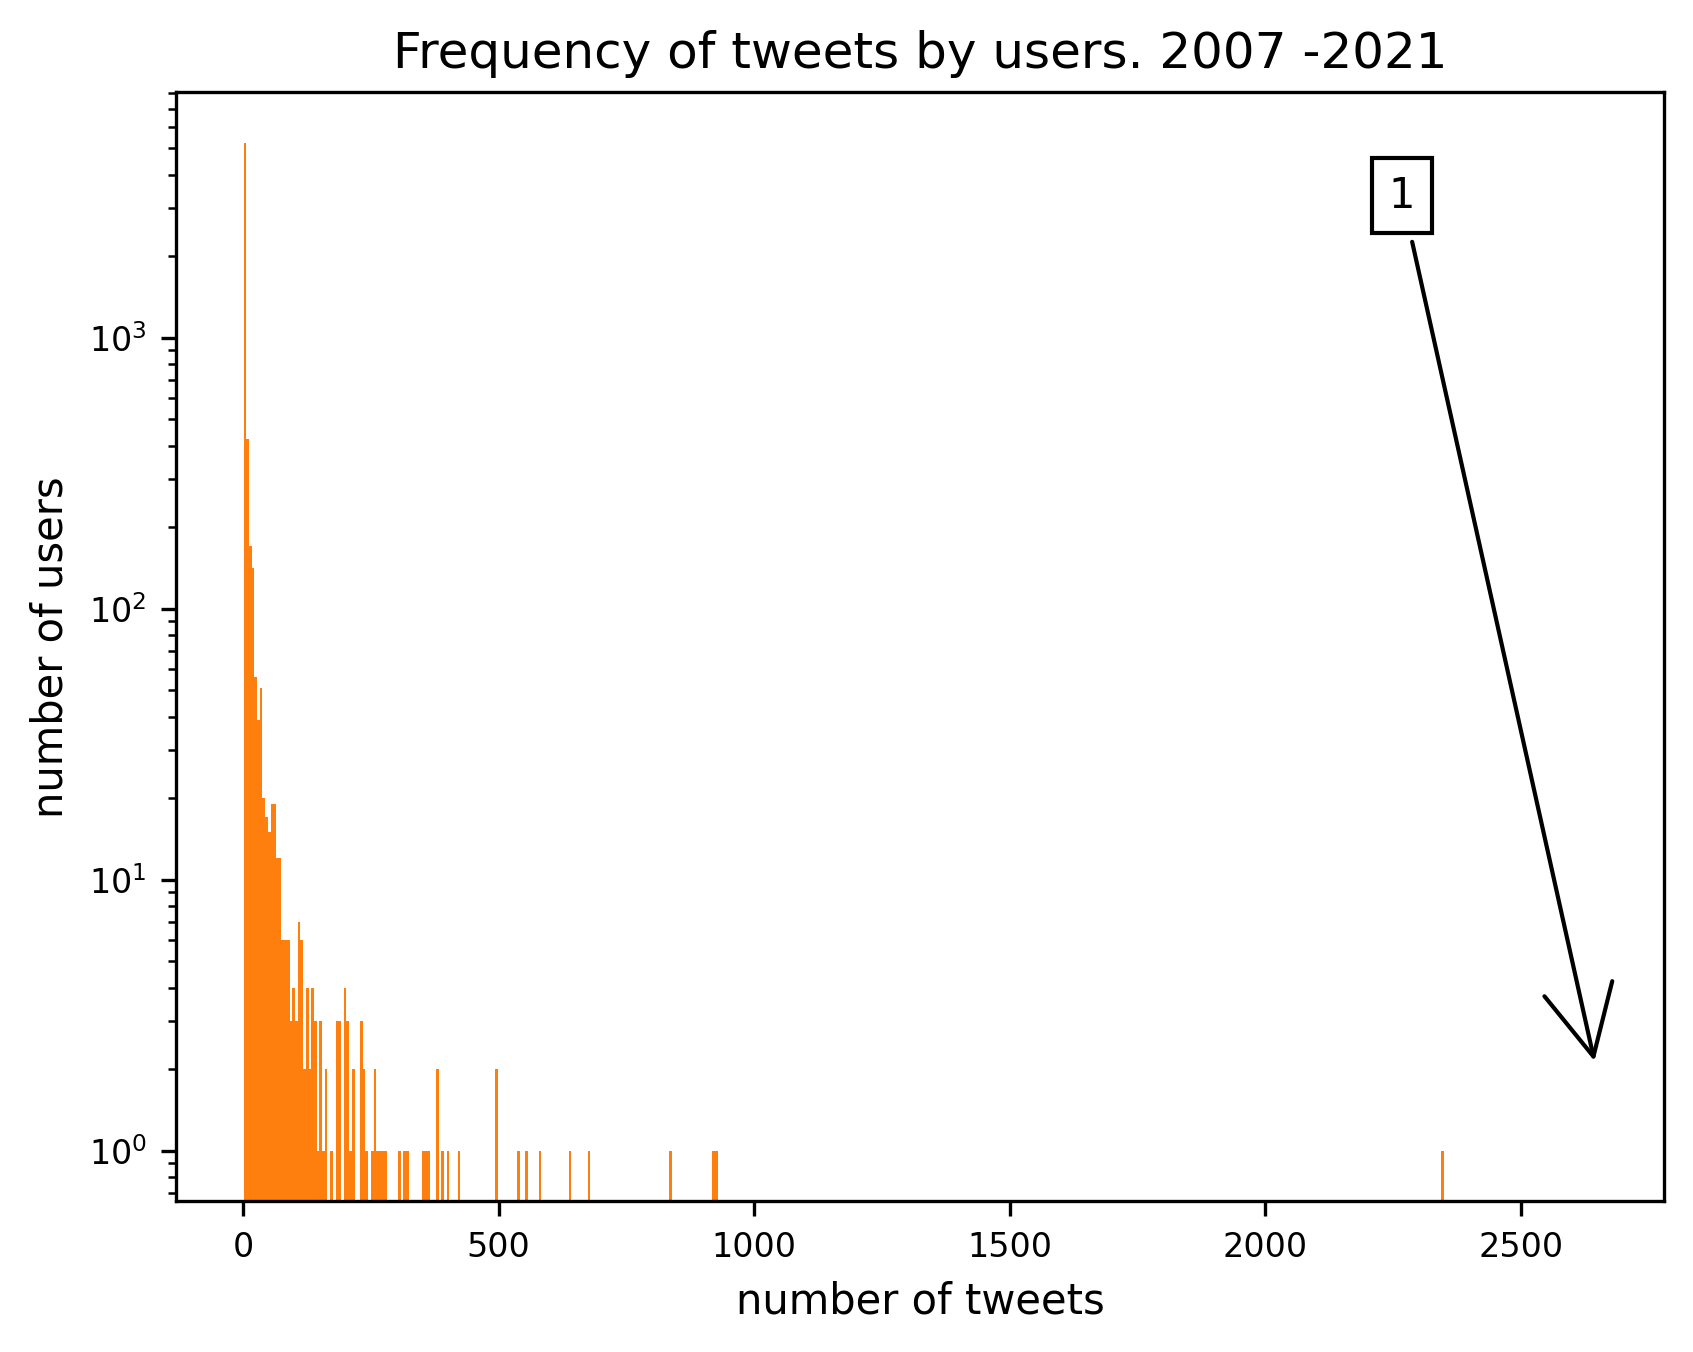
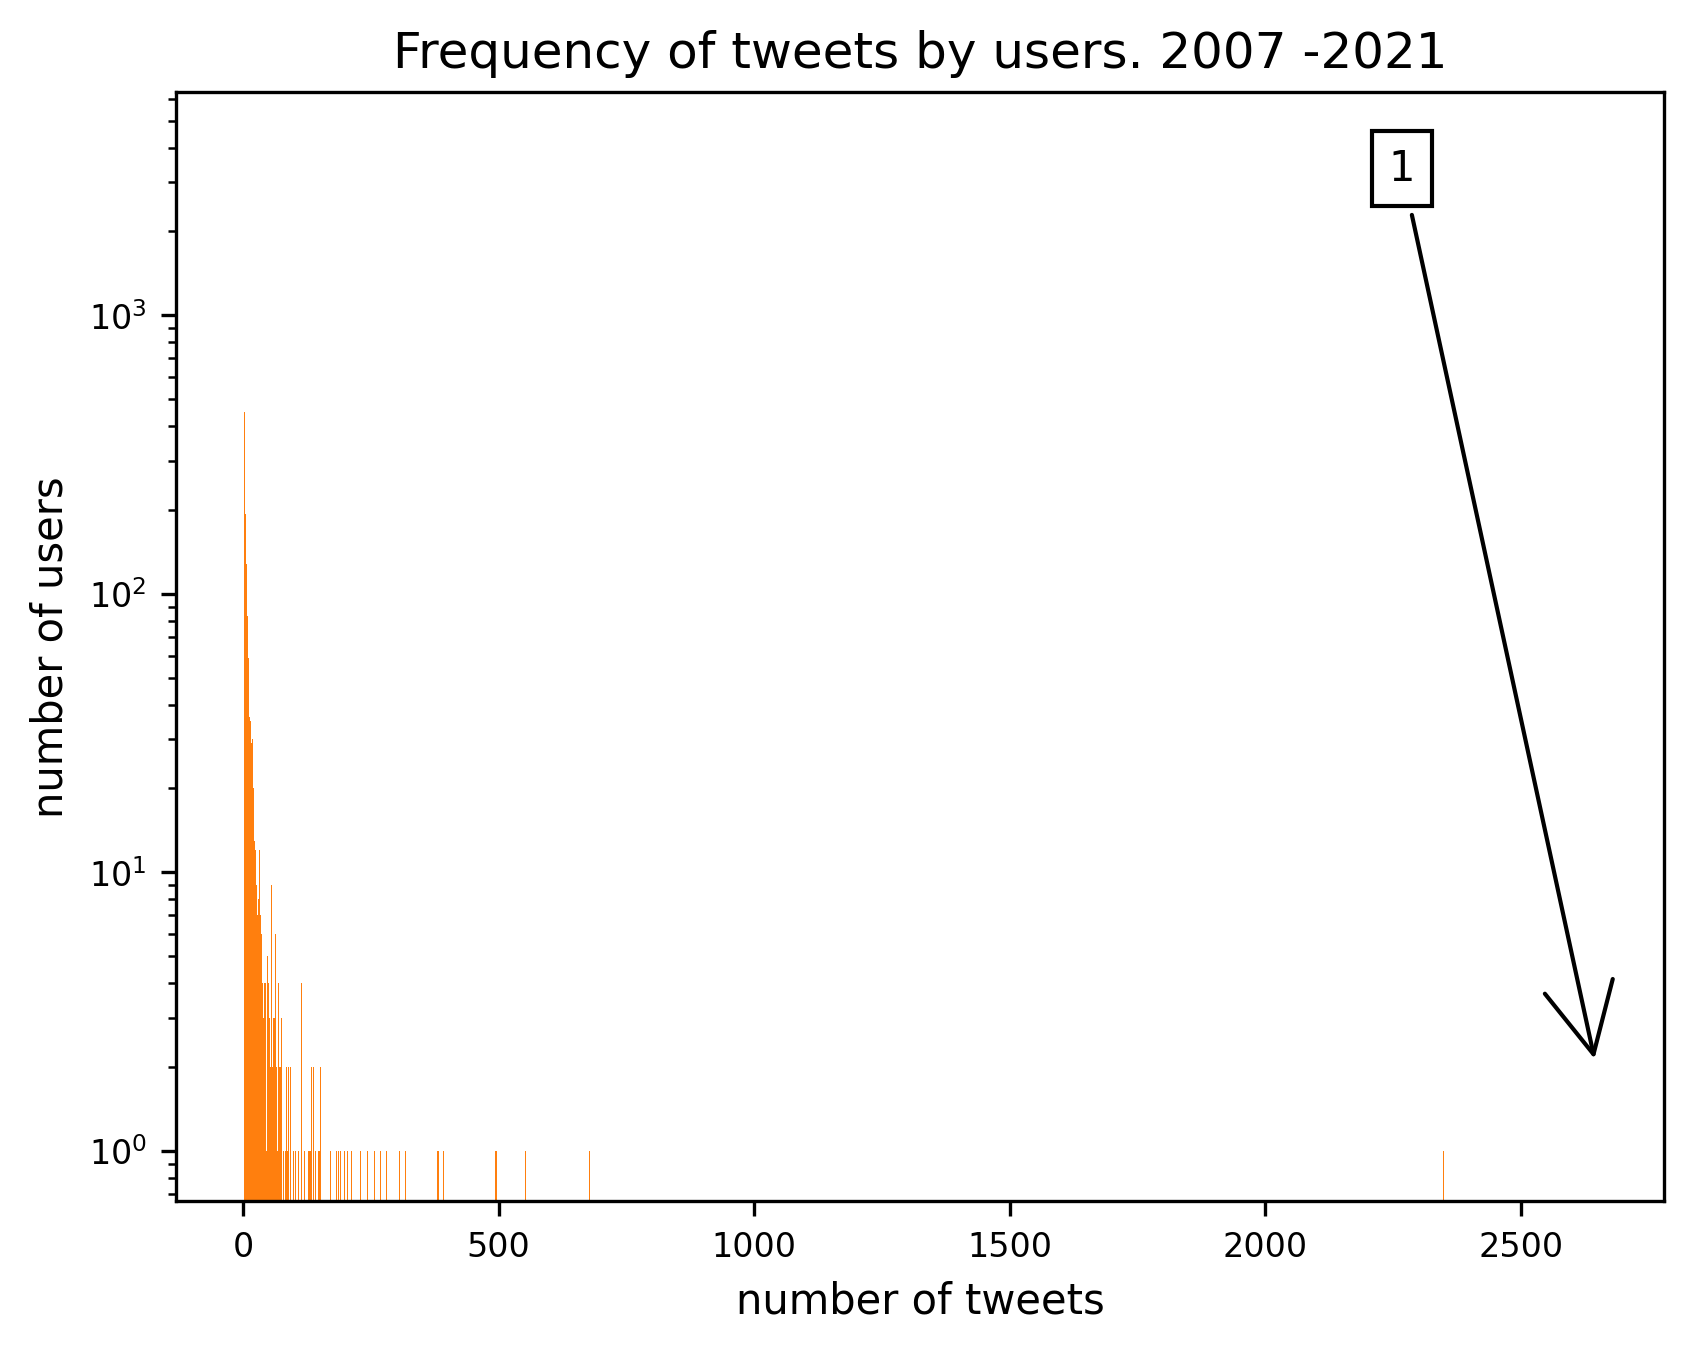
fig update, 5000 bins#

diff --git a/data/anon_identifier.py b/data/anon_identifier.py
@@ -50,8 +50,6 @@ def anonymizer():
         num_of_tweets[elem] += 1 
 
     sorted_tweet_occurances = dict(sorted(tweet_occurances.items(), key = lambda item: item[1]))
-    print(sorted_tweet_occurances)
-    print(list(sorted_tweet_occurances)[-10:])
     print("highest number of tweets by single user:{}".format(max_number_of_tweets)) 
     fig, ax = plt.subplots()
 
@@ -75,7 +73,8 @@ def anonymizer():
                         box_alignment = (5, 1),
                         arrowprops = dict(arrowstyle='->'))
                 
-    ax.hist(tweet_occurances.values() , bins = np.linspace(1, max_number_of_tweets-2, 500))
+    print(tweet_occurances.values())
+    ax.hist(tweet_occurances.values() , bins = np.linspace(1, max_number_of_tweets-2, 2500))
     plt.yscale('log')
     plt.xscale('linear')
     plt.ylabel('number of users')
